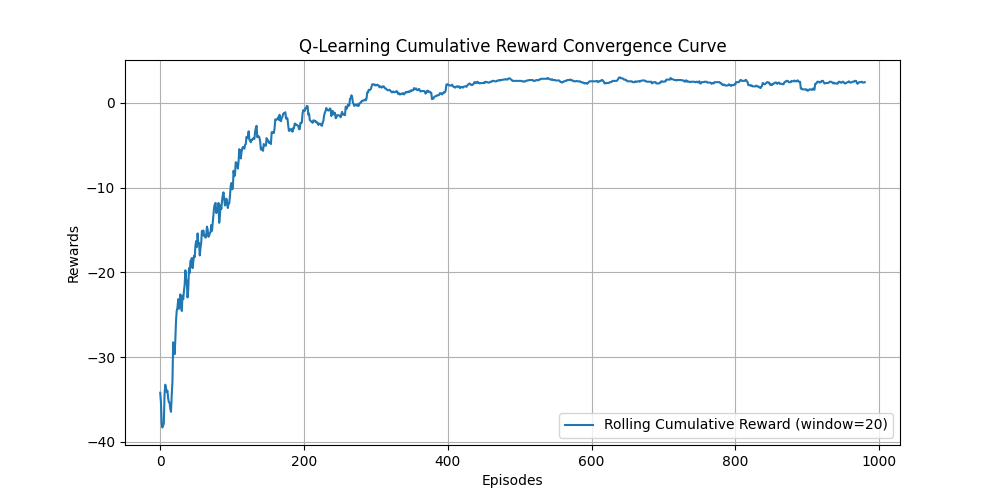
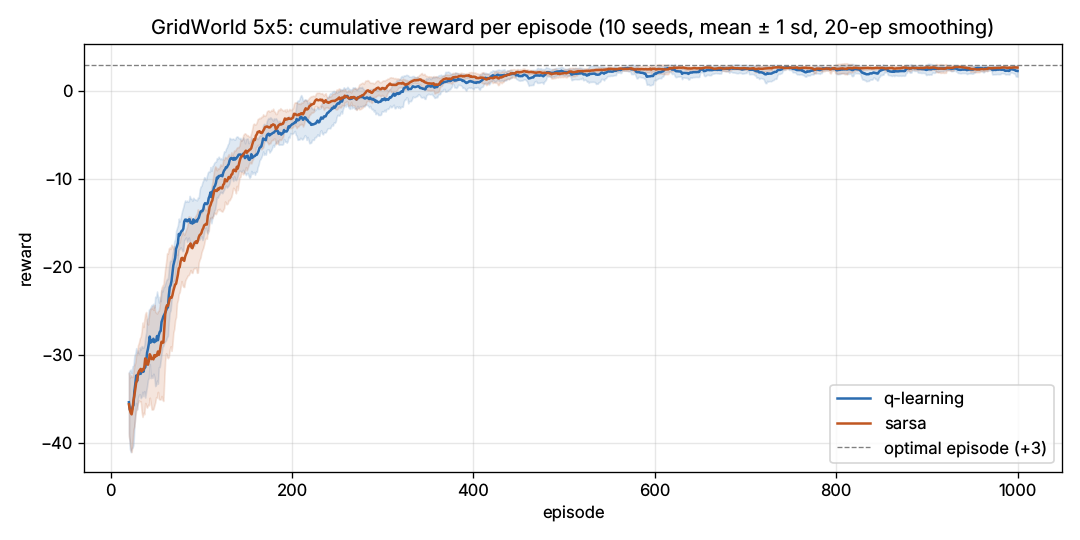
feat: implement SARSA next to Q-learning, multi-seed comparison, tests and CI
The README and repo description claimed SARSA, but only Q-learning existed.
agents.py now holds both update rules sharing one environment, policy and
schedule; train.py compares them over 10 seeds. Adds pytest coverage and a
GitHub Actions workflow.

diff --git a/agents.py b/agents.py
@@ -1,0 +1,87 @@
+"""Tabular Q-learning and SARSA on the GridWorld, written out by hand.
+
+Both agents share the environment, the epsilon-greedy behaviour policy and the
+epsilon schedule. The only difference is the bootstrap target:
+
+    Q-learning (off-policy): r + gamma * max_a' Q(s', a')
+    SARSA      (on-policy):  r + gamma * Q(s', a'), where a' is the action the
+                             behaviour policy will actually take next.
+"""
+from __future__ import annotations
+
+from dataclasses import dataclass
+
+import numpy as np
+
+from gridworld import GridWorld
+
+
+@dataclass(frozen=True)
+class Config:
+    episodes: int = 1000
+    alpha: float = 0.1
+    gamma: float = 0.95
+    epsilon_start: float = 1.0
+    epsilon_decay: float = 0.995
+    epsilon_min: float = 0.05
+    max_steps: int = 200  # safety cap so an early random policy cannot loop forever
+
+
+def epsilon_greedy(q_row: np.ndarray, epsilon: float, rng: np.random.Generator) -> int:
+    if rng.random() < epsilon:
+        return int(rng.integers(len(q_row)))
+    # Break ties at random so an all-zero row does not always pick action 0.
+    best = np.flatnonzero(q_row == q_row.max())
+    return int(rng.choice(best))
+
+
+def q_learning_target(q: np.ndarray, reward: float, next_state: int, done: bool, gamma: float) -> float:
+    return reward if done else reward + gamma * float(q[next_state].max())
+
+
+def sarsa_target(q: np.ndarray, reward: float, next_state: int, next_action: int, done: bool, gamma: float) -> float:
+    return reward if done else reward + gamma * float(q[next_state, next_action])
+
+
+def train(algorithm: str, cfg: Config = Config(), seed: int = 0, size: int = 5):
+    """Train one agent. Returns (Q-table, per-episode cumulative reward)."""
+    if algorithm not in ("q_learning", "sarsa"):
+        raise ValueError(f"unknown algorithm: {algorithm}")
+    rng = np.random.default_rng(seed)
+    env = GridWorld(size=size)
+    q = np.zeros((env.num_states, len(env.action_space)))
+    epsilon = cfg.epsilon_start
+    rewards = np.zeros(cfg.episodes)
+
+    for ep in range(cfg.episodes):
+        state = env.reset()
+        action = epsilon_greedy(q[state], epsilon, rng)
+        total = 0.0
+        for _ in range(cfg.max_steps):
+            next_state, reward, done = env.step(action)
+            next_action = epsilon_greedy(q[next_state], epsilon, rng)
+            if algorithm == "q_learning":
+                target = q_learning_target(q, reward, next_state, done, cfg.gamma)
+            else:
+                target = sarsa_target(q, reward, next_state, next_action, done, cfg.gamma)
+            q[state, action] += cfg.alpha * (target - q[state, action])
+            total += reward
+            state, action = next_state, next_action
+            if done:
+                break
+        rewards[ep] = total
+        epsilon = max(cfg.epsilon_min, epsilon * cfg.epsilon_decay)
+    return q, rewards
+
+
+def greedy_path(q: np.ndarray, size: int = 5, max_steps: int = 50) -> list[tuple[int, int]]:
+    """Follow argmax Q from the start. Returns visited cells, including the start."""
+    env = GridWorld(size=size)
+    state = env.reset()
+    path = [env.state]
+    for _ in range(max_steps):
+        state, _, done = env.step(int(np.argmax(q[state])))
+        path.append(env.state)
+        if done:
+            break
+    return path

diff --git a/train.py b/train.py
@@ -1,0 +1,63 @@
+"""Train Q-learning and SARSA on the same GridWorld over several seeds.
+
+    python train.py              # 10 seeds x 1000 episodes, writes reward_curve.png
+    python train.py --seeds 3    # quicker
+"""
+from __future__ import annotations
+
+import argparse
+
+import matplotlib
+
+matplotlib.use("Agg")
+import matplotlib.pyplot as plt
+import numpy as np
+
+from agents import Config, greedy_path, train
+from gridworld import GridWorld
+
+OPTIMAL_STEPS = 8  # (0,0) -> (4,4) on a 5x5 grid, avoiding the pit at (2,2)
+
+
+def main() -> None:
+    parser = argparse.ArgumentParser()
+    parser.add_argument("--seeds", type=int, default=10)
+    parser.add_argument("--episodes", type=int, default=1000)
+    args = parser.parse_args()
+    cfg = Config(episodes=args.episodes)
+    goal = GridWorld().goal
+
+    fig, ax = plt.subplots(figsize=(9, 4.5))
+    print(f"{'algorithm':<11} {'mean reward, last 100 ep':>25} {'greedy path reaches goal':>25} {'path = 8 steps':>15}")
+    for algo, colour in (("q_learning", "#2b6cb0"), ("sarsa", "#c05621")):
+        curves, tail, reached, optimal = [], [], 0, 0
+        for seed in range(args.seeds):
+            q, rewards = train(algo, cfg, seed=seed)
+            curves.append(rewards)
+            tail.append(rewards[-100:].mean())
+            path = greedy_path(q)
+            if path[-1] == goal:
+                reached += 1
+                optimal += int(len(path) - 1 == OPTIMAL_STEPS)
+        curves = np.array(curves)
+        window = 20
+        smooth = np.array([np.convolve(c, np.ones(window) / window, mode="valid") for c in curves])
+        mean, std = smooth.mean(0), smooth.std(0)
+        x = np.arange(len(mean)) + window
+        ax.plot(x, mean, color=colour, label=algo.replace("_", "-"))
+        ax.fill_between(x, mean - std, mean + std, color=colour, alpha=0.15)
+        print(f"{algo:<11} {np.mean(tail):>19.2f} ± {np.std(tail):.2f} {reached:>18}/{args.seeds} {optimal:>12}/{args.seeds}")
+
+    ax.set_title(f"GridWorld 5x5: cumulative reward per episode ({args.seeds} seeds, mean ± 1 sd, 20-ep smoothing)")
+    ax.set_xlabel("episode")
+    ax.set_ylabel("reward")
+    ax.axhline(10 - (OPTIMAL_STEPS - 1), color="grey", lw=0.8, ls="--", label="optimal episode (+3)")
+    ax.legend()
+    ax.grid(alpha=0.3)
+    fig.tight_layout()
+    fig.savefig("reward_curve.png", dpi=120)
+    print("saved reward_curve.png")
+
+
+if __name__ == "__main__":
+    main()

diff --git a/tests/test_agents.py b/tests/test_agents.py
@@ -1,0 +1,50 @@
+import numpy as np
+import pytest
+
+from agents import Config, greedy_path, q_learning_target, sarsa_target, train
+from gridworld import GridWorld
+
+
+def test_env_walls_goal_and_pit():
+    env = GridWorld(size=5)
+    assert env.reset() == 0
+    s, r, done = env.step(0)  # up from (0,0) hits the wall
+    assert (s, r, done) == (0, -1.0, False)
+    env.state = (4, 3)
+    _, r, done = env.step(3)
+    assert (r, done) == (10.0, True)
+    env.state = (2, 1)
+    _, r, done = env.step(3)
+    assert (r, done) == (-10.0, True)
+
+
+def test_targets_differ_only_in_bootstrap():
+    q = np.zeros((25, 4))
+    q[7] = [1.0, 5.0, 2.0, 0.0]
+    assert q_learning_target(q, -1.0, 7, False, 0.9) == pytest.approx(-1 + 0.9 * 5.0)
+    assert sarsa_target(q, -1.0, 7, 2, False, 0.9) == pytest.approx(-1 + 0.9 * 2.0)
+    # Terminal transitions never bootstrap.
+    assert q_learning_target(q, 10.0, 7, True, 0.9) == 10.0
+    assert sarsa_target(q, 10.0, 7, 1, True, 0.9) == 10.0
+
+
+def test_training_is_reproducible():
+    cfg = Config(episodes=50)
+    q1, r1 = train("sarsa", cfg, seed=3)
+    q2, r2 = train("sarsa", cfg, seed=3)
+    np.testing.assert_array_equal(q1, q2)
+    np.testing.assert_array_equal(r1, r2)
+
+
+@pytest.mark.parametrize("algorithm", ["q_learning", "sarsa"])
+def test_learns_the_optimal_8_step_path(algorithm):
+    q, _ = train(algorithm, Config(episodes=1000), seed=0)
+    path = greedy_path(q)
+    assert path[-1] == (4, 4)
+    assert len(path) - 1 == 8
+    assert (2, 2) not in path
+
+
+def test_unknown_algorithm_rejected():
+    with pytest.raises(ValueError):
+        train("dqn")

diff --git a/README.md b/README.md
@@ -1,34 +1,68 @@
 # Reinforcement Learning Lab
 
-![Python](https://img.shields.io/badge/Python-3776AB?style=flat-square&logo=python&logoColor=white)
-![NumPy](https://img.shields.io/badge/NumPy-013243?style=flat-square&logo=numpy&logoColor=white)
-![Matplotlib](https://img.shields.io/badge/Matplotlib-11557C?style=flat-square)
+Q-learning and SARSA written from scratch in NumPy on a 5×5 GridWorld. Over 10 seeds, both learn the
+optimal 8-step path every time.
 
-Tabular **model-free reinforcement learning** agents — **Q-Learning** and **SARSA** — implemented
-from scratch in NumPy on a custom GridWorld, to study how on-policy vs off-policy updates and
-ε-greedy exploration affect convergence.
+[![CI](https://github.com/VenkataVinesh/Reinforcement-Learning-Lab/actions/workflows/ci.yml/badge.svg)](https://github.com/VenkataVinesh/Reinforcement-Learning-Lab/actions/workflows/ci.yml)
+![Python 3.11](https://img.shields.io/badge/python-3.11-3776AB)
+![License: MIT](https://img.shields.io/badge/license-MIT-green)
 
-![Reward curve](reward_curve.png)
+![Cumulative reward per episode for Q-learning and SARSA, 10 seeds, mean ± 1 sd](reward_curve.png)
 
-## Environment
-- **Grid:** 5×5, state = `(x, y)`.
-- **Start** `(0,0)` · **Goal** `(4,4)` `+10` · **Pit** `(2,2)` `−10`.
-- **Actions:** up / down / left / right.
-- **Exploration:** ε-greedy, decaying exponentially 1.0 → 0.05.
+## Quick start
 
-## Run
 ```bash
+git clone https://github.com/VenkataVinesh/Reinforcement-Learning-Lab.git
+cd Reinforcement-Learning-Lab
 pip install -r requirements.txt
-python q_learning.py     # trains over episodes, prints learned Q-grid, saves reward_curve.png
+python train.py            # 10 seeds x 1000 episodes for each agent, prints the table, writes reward_curve.png
+pip install -r requirements-dev.txt && pytest -q
 ```
 
-## Files
+## How it works
+
+| | |
+|---|---|
+| Environment (`gridworld.py`) | 5×5 grid, start `(0,0)`, goal `(4,4)` worth +10, pit `(2,2)` worth −10, −1 per step, walls block movement |
+| Behaviour policy | ε-greedy with random tie-breaking. ε decays from 1.0 by ×0.995 per episode to a floor of 0.05 |
+| Update (`agents.py`) | `Q(s,a) += α [target − Q(s,a)]` with α = 0.1, γ = 0.95 |
+| Q-learning target | `r + γ max_a' Q(s', a')` (off-policy: bootstraps from the greedy action) |
+| SARSA target | `r + γ Q(s', a')`, where `a'` is the action actually taken next (on-policy) |
+
+Both agents share the environment, the seeds and the schedule, so the only thing that differs is the
+bootstrap target. The tests check this directly (`tests/test_agents.py`).
+
+## Results
+
+`python train.py` (10 seeds, 1,000 episodes each):
+
+| Agent | Mean reward, last 100 episodes | Greedy policy reaches goal | Greedy path is the optimal 8 steps |
+|---|---:|---:|---:|
+| Q-learning | 2.45 ± 0.18 | 10/10 | 10/10 |
+| SARSA | 2.60 ± 0.17 | 10/10 | 10/10 |
+
+An optimal episode scores +3 (7 steps at −1, then +10). Training rewards stay just below that
+because the behaviour policy still explores 5% of the time. SARSA scores slightly higher during
+training because it learns the value of the policy it actually follows, exploration included. The
+gap is about one standard deviation, so on a grid this small it is a tendency, not a finding.
+
+## Limitations
+
+- A 25-state tabular problem: it shows the update rules, not anything about scale. No function
+  approximation.
+- The pit sits off the optimal route, so the classic "cliff-walking" contrast (SARSA choosing a safer
+  path) does not show up here.
+- Hyperparameters were not tuned. These are textbook defaults.
+
+## Project layout
+
 ```
-gridworld.py    # custom discrete Gym-style environment
-q_learning.py   # Q-learning + SARSA tabular updates
+gridworld.py        environment
+agents.py           epsilon-greedy, Q-learning and SARSA targets, training loop, greedy rollout
+train.py            multi-seed comparison and plot
+tests/              pytest: environment dynamics, targets, reproducibility, convergence
 ```
 
-## Why
-Reinforcement learning is easiest to *trust* once you've built the update rule yourself. This lab
-implements the Bellman backups directly and visualizes how the policy and value estimates evolve —
-no library doing the learning for you.
+## License
+
+MIT, see [LICENSE](LICENSE).
